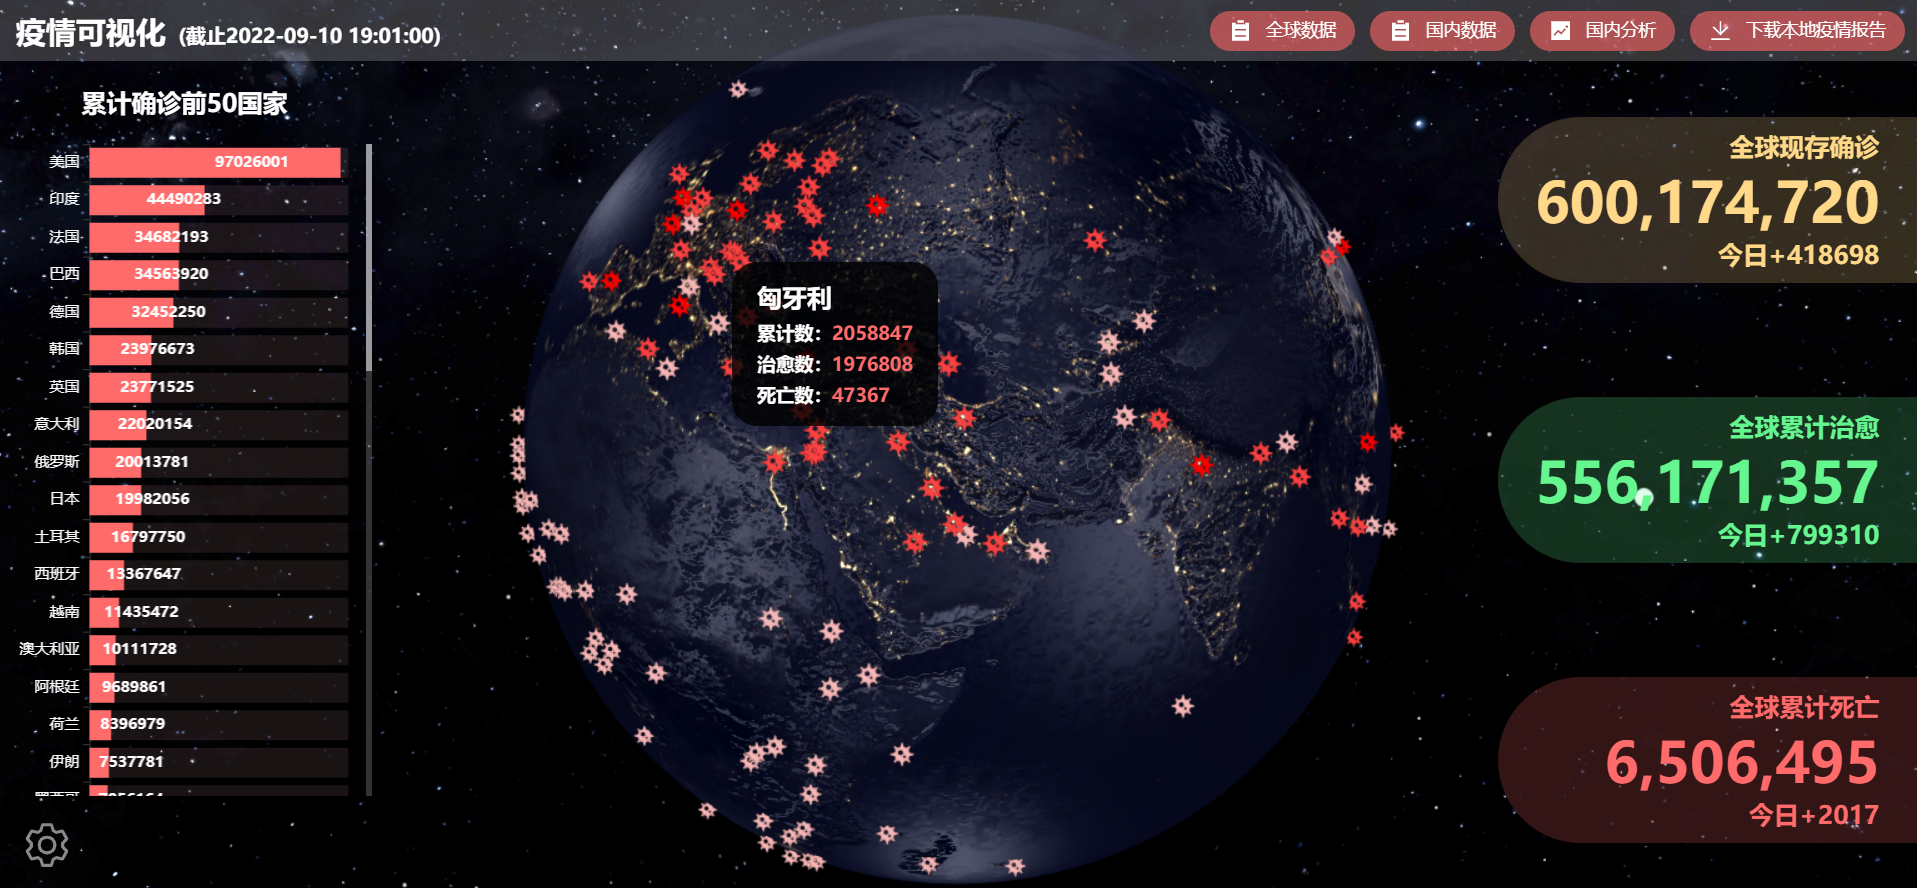
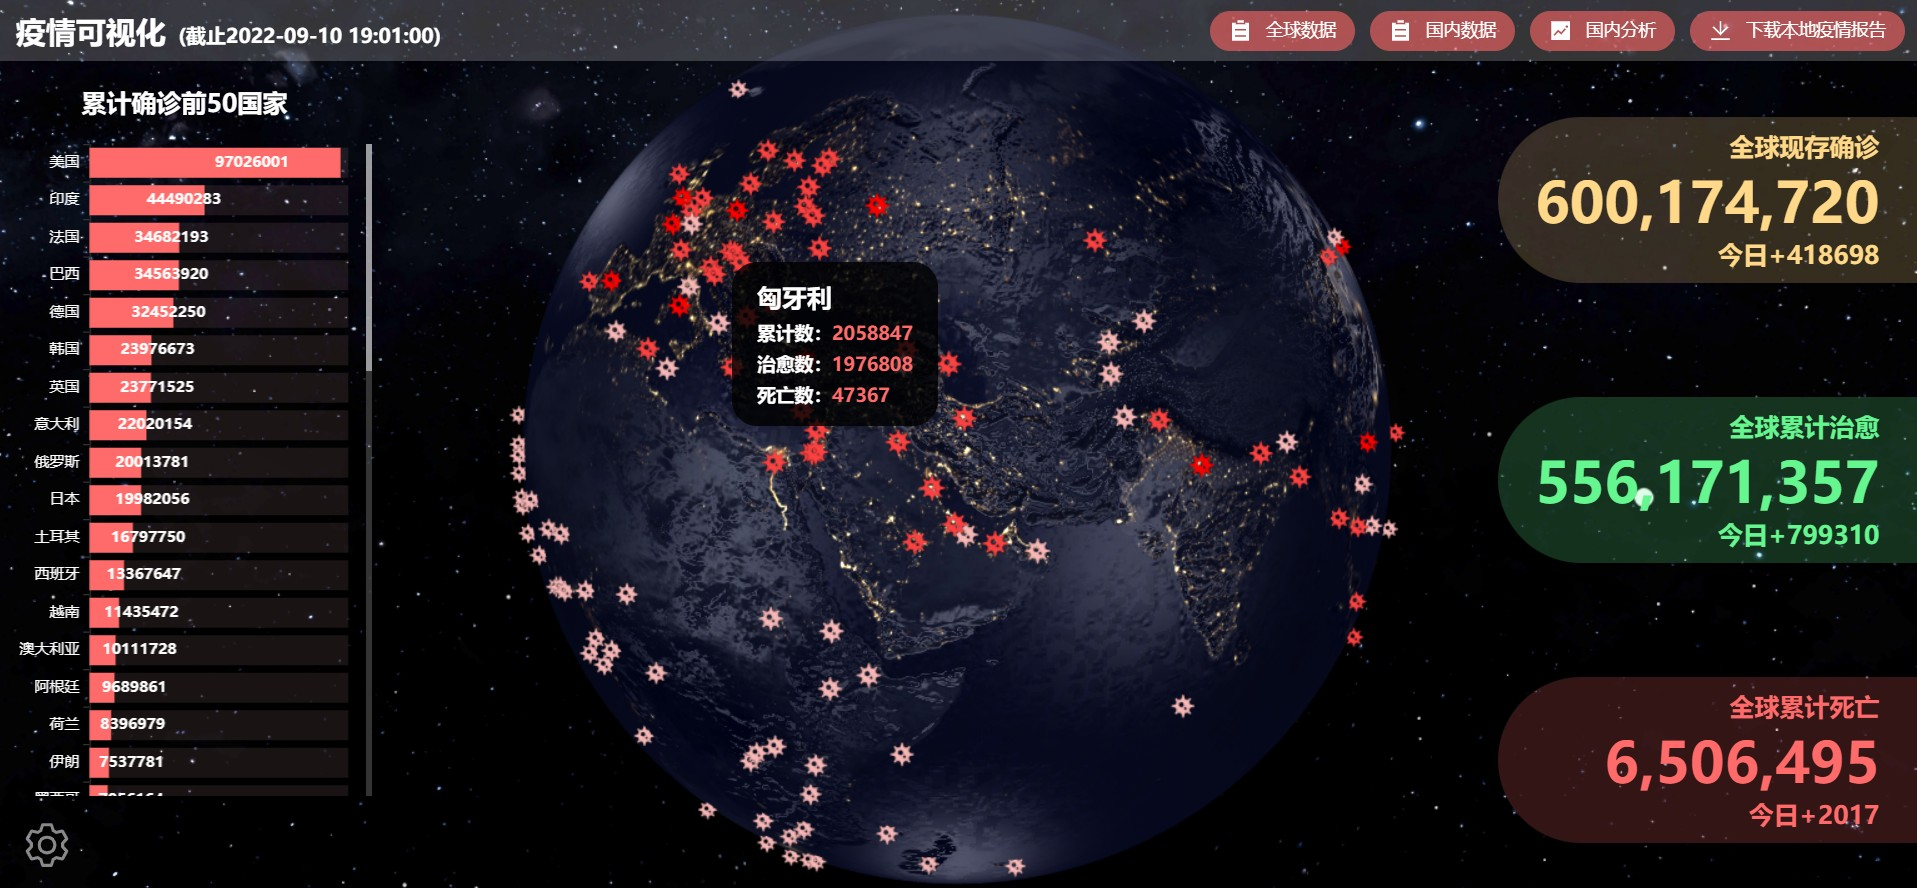
图片压缩

Changed region(s): [[0.4309, 0.3649, 0.4924, 0.4561], [0.9233, 0.7905, 0.9541, 0.8209], [0.0616, 0.2432, 0.0923, 0.2736]]

diff --git a/src/views/Sphere.vue b/src/views/Sphere.vue
@@ -100,7 +100,7 @@ import { dataSource1, dataSource2 } from "@/api/request";
 import tempData from "@/assets/json/tempData.json";
 import universeImg from "@/assets/img/universe.jpg";
 import starImg from "@/assets/img/star.jpg";
-import earthImg from "@/assets/img/earth.jpg";
+import earthImg from "@/assets/img/earth1.jpg";
 import earthNightImg from "@/assets/img/earthNight.jpg";
 import normalImg from "@/assets/img/earthNormal.jpg";
 import virusImg from "@/assets/img/virus3.png";

diff --git a/README.md b/README.md
@@ -32,6 +32,8 @@ vue3、TypeScript、Three.js、Echarts、elementPlus。
 ![img](./md_img/2.jpg)
 全球数据可下载
 ![img](./md_img/3.jpg)
+国内详情数
+![img](./md_img/7.jpg)
 国内数据可下载
 ![img](./md_img/4.jpg)
 国内图表分析
